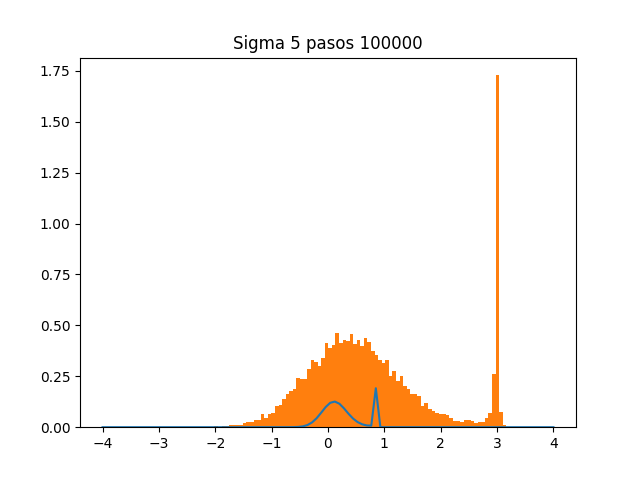
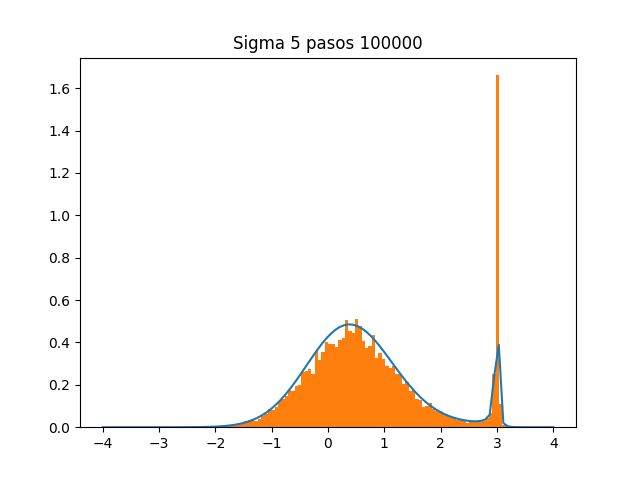
aun no se algunos

diff --git a/S7C2/GarciaArnold_S7C2.py b/S7C2/GarciaArnold_S7C2.py
@@ -18,6 +18,7 @@ plt.savefig("distribucion")
 ##definimos el tamaño del paso
 def fun(x0,sig):
     paso=[]
+    #un aleatorio entre nuestros valores a evaluar, osea -4 y 4
     b=8*(np.random.random())-4
     paso.append(b)
     for i in range(x0):
@@ -40,38 +41,38 @@ def fun(x0,sig):
 a=-4
 b=4
 resIntegral=0
-def integralRec(m):
-    x=np.linspace(a,b,int(m))
+def integralRec(xguess1,m):
+  
     ancho= (b-a)/m
-    resIntegral = np.sum(ancho*mifun(x)) 
+    resIntegral = np.sum(ancho*mifun(xguess1)) 
     return resIntegral
 
 plt.figure()
-plt.plot(x,mifun(x))
+plt.plot(x,mifun(x)/integralRec(x,100))
 plt.title("Sigma 0.01 pasos 100000")
 plt.hist(fun(100000,0.01),bins=100,density=True)
 plt.savefig("sigma1")
 
 plt.figure()
-plt.plot(x,mifun(x/integralRec(1000)))
+plt.plot(x,mifun(x)/integralRec(x,100))
 plt.title("Sigma 5 pasos 100000")
 plt.hist(fun(100000,5),bins=100,density=True)
 plt.savefig("sigma2")
 
 plt.figure()
-plt.plot(x,mifun(x))
+plt.plot(x,mifun(x)/integralRec(x,100))
 plt.title("Sigma 0.2 pasos 100000")
 plt.hist(fun(100000,0.2),bins=100,density=True)
 plt.savefig("sigma3")
 
 plt.figure()
-plt.plot(x,mifun(x))
+plt.plot(x,mifun(x)/integralRec(x,100))
 plt.title("Sigma 0.1 pasos 1000")
 plt.hist(fun(1000,0.1),bins=100,density=True)
 plt.savefig("sigma4")
 
 plt.figure()
-plt.plot(x,mifun(x))
+plt.plot(x,mifun(x)/integralRec(x,100))
 plt.title("Sigma 0.1 pasos 100000")
 plt.hist(fun(100000,0.1),bins=100,density=True)
 plt.savefig("sigma5")
